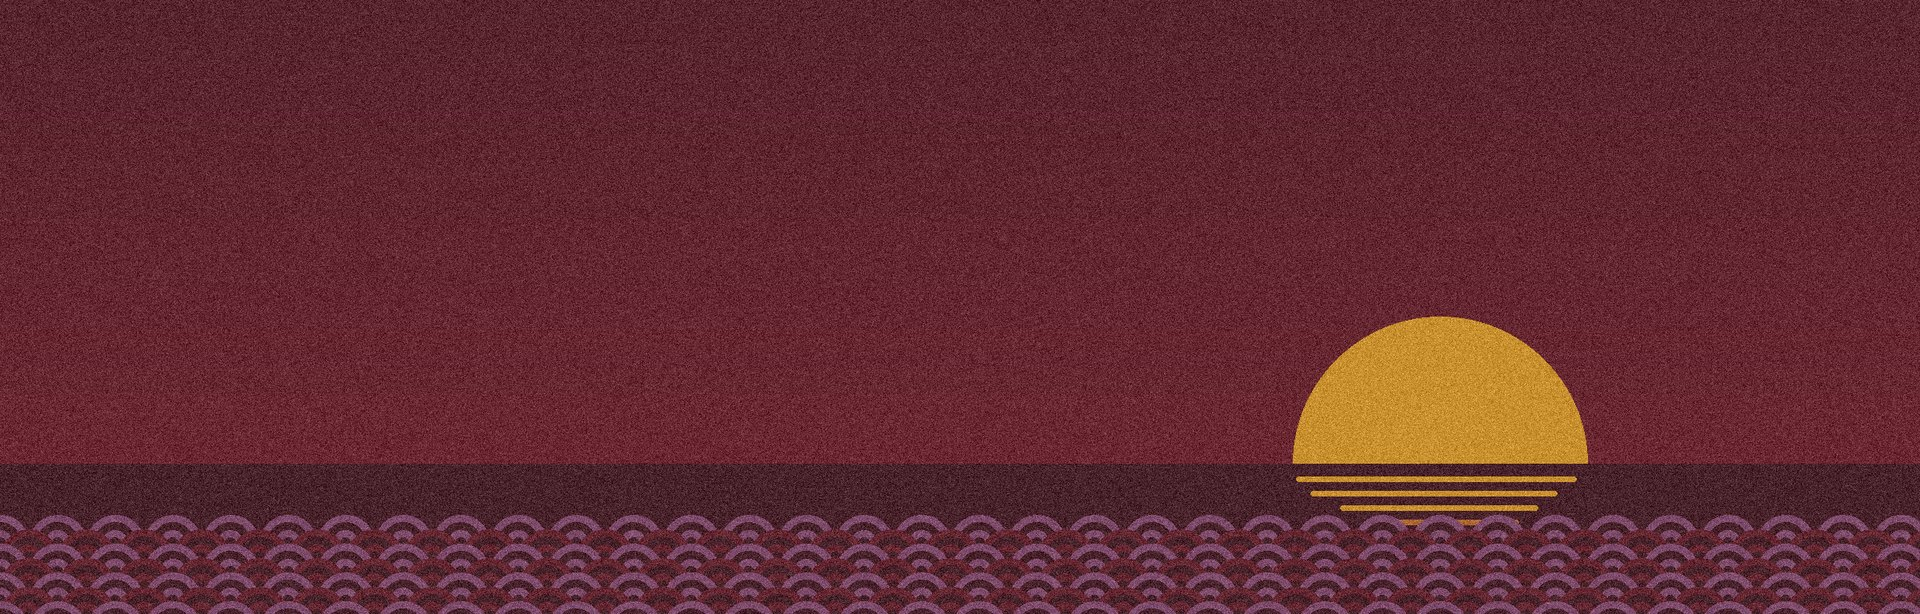
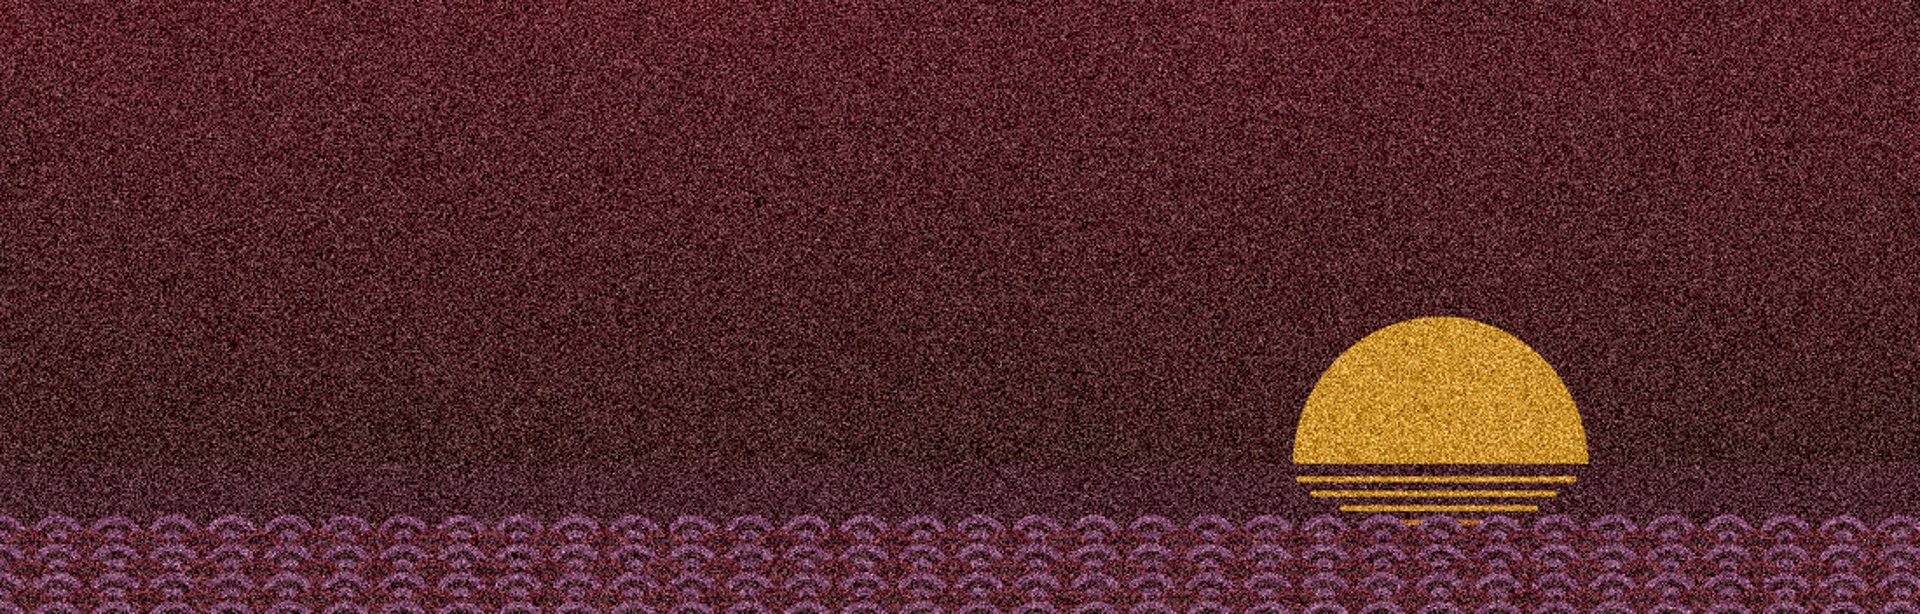
Signup option 5 on the original wine night gradient
Claude-Session: https://claude.ai/code/session_01CPFfiZz4rjPwAdTY8Ptavd

diff --git a/art/blog/signup_bands.py b/art/blog/signup_bands.py
@@ -65,7 +65,16 @@ save(im, 'signup_moonlit_swell.jpg', seed=24)
 print('done')
 
 # 5 Wine sunset: option 2's wine sky and wave-scale shore with option 3's ochre sun sinking at the horizon
-im = canvas(mixc(c['wine'], c['ink'], 0.55), mixc(c['wine'], c['ink'], 0.25), 1)
+# the original footer's background: wine fading to warm dark brown, mottled, as in the moon artwork
+rng_bg = np.random.default_rng(7)
+def _blur_noise(r):
+    n = Image.fromarray((rng_bg.random((H, W)) * 255).astype('uint8')).filter(ImageFilter.GaussianBlur(r*S))
+    a = np.asarray(n, dtype=float); return (a - a.min()) / (a.max() - a.min() + 1e-6)
+fbm = 0.5*_blur_noise(18) + 0.3*_blur_noise(6) + 0.2*_blur_noise(2)
+t = np.clip(fbm*0.6 + np.linspace(0.12, 0.55, H)[:, None], 0, 1)
+wine85 = np.array(c['wine'], float)*0.85; ink_rw = np.array(hx('2A1C18'), float)
+base = wine85[None, None]*(1 - t[..., None]) + ink_rw[None, None]*t[..., None]
+im = Image.fromarray(np.clip(base, 0, 255).astype('uint8'))
 disc(im, 900, 290, 92, c['ochre'])
 d = ImageDraw.Draw(im); d.rectangle([0, 290*S, W, H], fill=mixc(c['wine'], c['ink'], 0.7))
 rng = np.random.default_rng(5)
@@ -73,5 +82,8 @@ for k in range(5):
     y = 298 + k*9; w = 170 - k*24
     d.rounded_rectangle([(900 - w/2 + rng.normal(0, 6))*S, y*S, (900 + w/2)*S, (y+3)*S], radius=2*S, fill=c['ochre'] if k < 3 else mixc(c['ochre'], c['wine'], 0.4))
 seigaiha(im, 340, [c['plum'], mixc(c['wine'], c['ink'], 0.4)], r=18, line=mixc(c['wine'], c['ink'], 0.7))
-save(im, 'signup_wine_sunset.jpg', seed=25)
+small = im.resize((1100, 352), Image.LANCZOS)
+rng5 = np.random.default_rng(25)
+a5 = np.asarray(small, dtype=float) + rng5.normal(0, 30, (352, 1100, 1))
+Image.fromarray(np.clip(a5, 0, 255).astype('uint8')).resize((1920, 614), Image.BICUBIC).save(OUT + 'signup_wine_sunset.jpg', quality=88)
 print('done 5')
